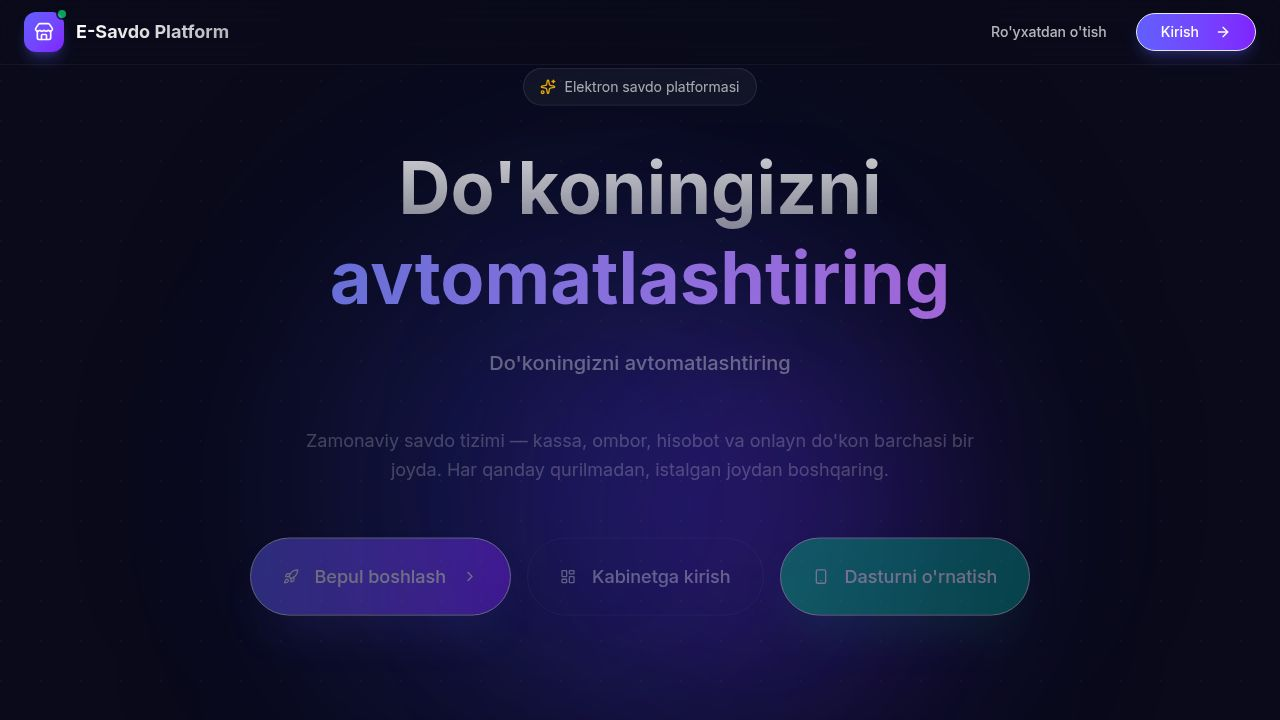
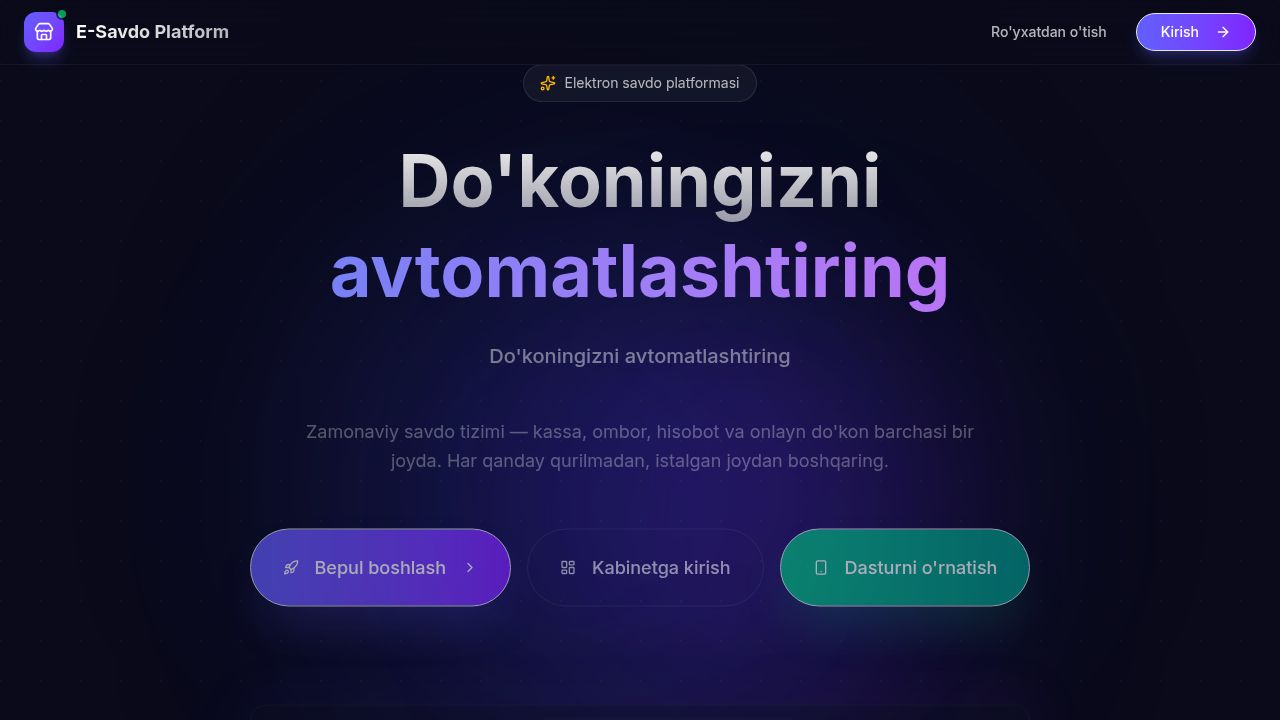
Improve website performance by removing animation effects
Remove framer-motion animations and heavy CSS effects from the store page for better performance.

Replit-Commit-Author: Agent
Replit-Commit-Session-Id: 50931296-ac4f-48e0-b373-39cb8b17eb37
Replit-Commit-Checkpoint-Type: full_checkpoint
Replit-Commit-Event-Id: 75b92944-d987-4597-ac8e-4ceec37af5c2
Replit-Commit-Screenshot-Url: https://storage.googleapis.com/screenshot-production-us-central1/d23b876a-67c8-40e0-bb8b-0c8db8d60217/50931296-ac4f-48e0-b373-39cb8b17eb37/1ElRhYS
Replit-Helium-Checkpoint-Created: true

diff --git a/client/src/pages/store/slug-store.tsx b/client/src/pages/store/slug-store.tsx
@@ -6,7 +6,7 @@ import { Input } from "@/components/ui/input";
 import { Badge } from "@/components/ui/badge";
 import { Search, ShoppingCart, ArrowRight, Store, Truck, ShieldCheck, Phone, Play } from "lucide-react";
 import { VideoPopup } from "@/components/ui/video-popup";
-import { motion, AnimatePresence } from "framer-motion";
+import { AnimatePresence } from "framer-motion";
 import { cn } from "@/lib/utils";
 
 interface TenantInfo {
@@ -232,29 +232,23 @@ export default function SlugStorePage() {
       </nav>
 
       <section className="relative overflow-hidden pt-12 pb-20 lg:pt-20 lg:pb-28">
-        <div className="absolute top-0 left-1/2 -translate-x-1/2 w-full h-full z-0 pointer-events-none">
-          <div className="absolute top-20 left-10 w-72 h-72 bg-purple-300 rounded-full mix-blend-multiply filter blur-3xl opacity-30 animate-blob" />
-          <div className="absolute top-20 right-10 w-72 h-72 bg-yellow-300 rounded-full mix-blend-multiply filter blur-3xl opacity-30 animate-blob animation-delay-2000" />
-        </div>
         <div className="container mx-auto px-4 relative z-10">
           <div className="text-center max-w-3xl mx-auto">
-            <motion.div initial={{ opacity: 0, y: 20 }} animate={{ opacity: 1, y: 0 }} transition={{ duration: 0.5 }}>
-              <h1 className="text-4xl md:text-6xl font-extrabold tracking-tight text-slate-900 mb-6 leading-tight">
-                <span style={{ color: brandColor }}>{tenant.name}</span>ga <br /> xush kelibsiz!
-              </h1>
-              <p className="text-lg text-slate-600 mb-8 leading-relaxed">
-                Bizning do'konimizdan sifatli mahsulotlarni toping va onlayn buyurtma bering.
-              </p>
-              <Button
-                size="lg"
-                className="h-12 px-8 text-white rounded-full shadow-xl transition-transform hover:scale-105"
-                style={{ backgroundColor: brandColor }}
-                onClick={() => document.getElementById("catalog")?.scrollIntoView({ behavior: "smooth" })}
-                data-testid="button-start-shopping"
-              >
-                Xaridni boshlash <ArrowRight className="ml-2 h-4 w-4" />
-              </Button>
-            </motion.div>
+            <h1 className="text-4xl md:text-6xl font-extrabold tracking-tight text-slate-900 mb-6 leading-tight">
+              <span style={{ color: brandColor }}>{tenant.name}</span>ga <br /> xush kelibsiz!
+            </h1>
+            <p className="text-lg text-slate-600 mb-8 leading-relaxed">
+              Bizning do'konimizdan sifatli mahsulotlarni toping va onlayn buyurtma bering.
+            </p>
+            <Button
+              size="lg"
+              className="h-12 px-8 text-white rounded-full shadow-xl transition-transform hover:scale-105"
+              style={{ backgroundColor: brandColor }}
+              onClick={() => document.getElementById("catalog")?.scrollIntoView({ behavior: "smooth" })}
+              data-testid="button-start-shopping"
+            >
+              Xaridni boshlash <ArrowRight className="ml-2 h-4 w-4" />
+            </Button>
           </div>
         </div>
       </section>
@@ -346,12 +340,9 @@ export default function SlugStorePage() {
               </div>
               <div className="grid grid-cols-2 sm:grid-cols-3 lg:grid-cols-4 xl:grid-cols-5 gap-6">
                 {newProducts.map((product) => (
-                  <motion.div
+                  <div
                     key={`new-${product.id}`}
-                    initial={{ opacity: 0, y: 20 }}
-                    animate={{ opacity: 1, y: 0 }}
-                    transition={{ duration: 0.5 }}
-                    className="group rounded-2xl p-3 shadow-lg hover:shadow-xl transition-all flex flex-col relative overflow-hidden bg-gradient-to-br from-amber-50 via-white to-orange-50 border-2 border-amber-300 hover:shadow-amber-200 ring-1 ring-amber-200"
+                    className="group rounded-2xl p-3 shadow-lg hover:shadow-xl transition-shadow flex flex-col relative overflow-hidden bg-gradient-to-br from-amber-50 via-white to-orange-50 border-2 border-amber-300 ring-1 ring-amber-200"
                     data-testid={`card-new-product-${product.id}`}
                   >
                     <div className="absolute top-0 right-0 z-20">
